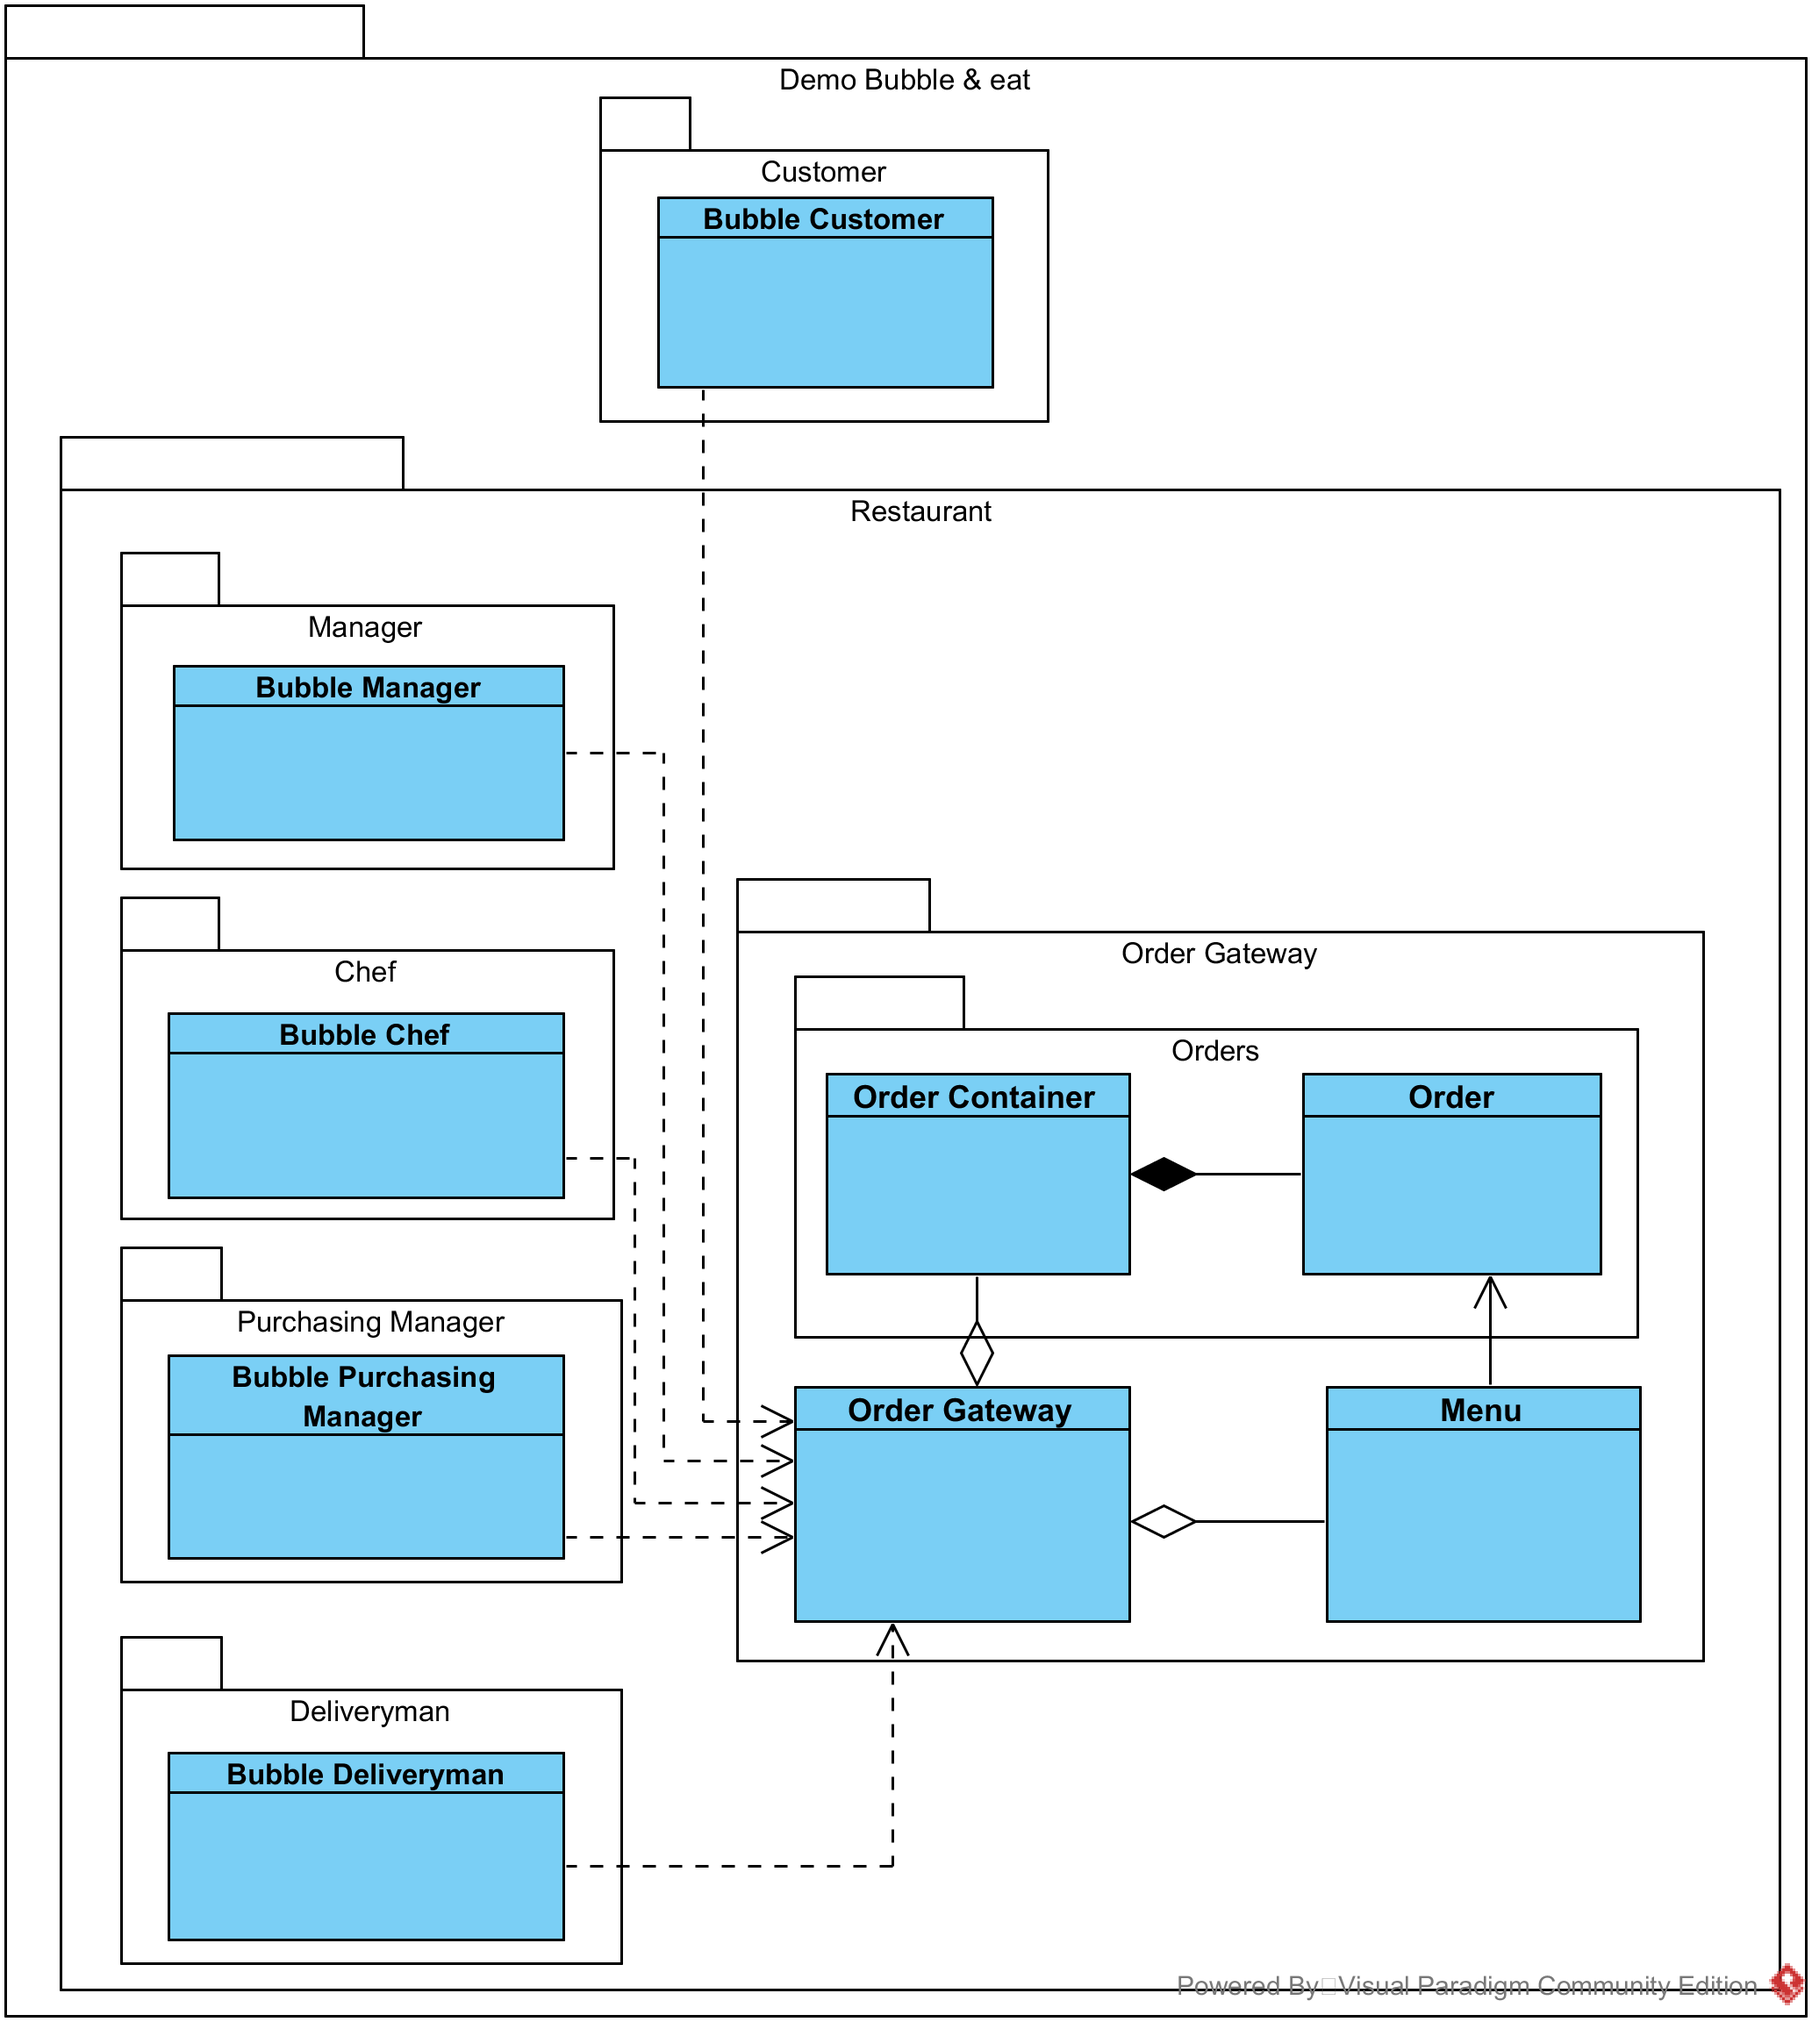
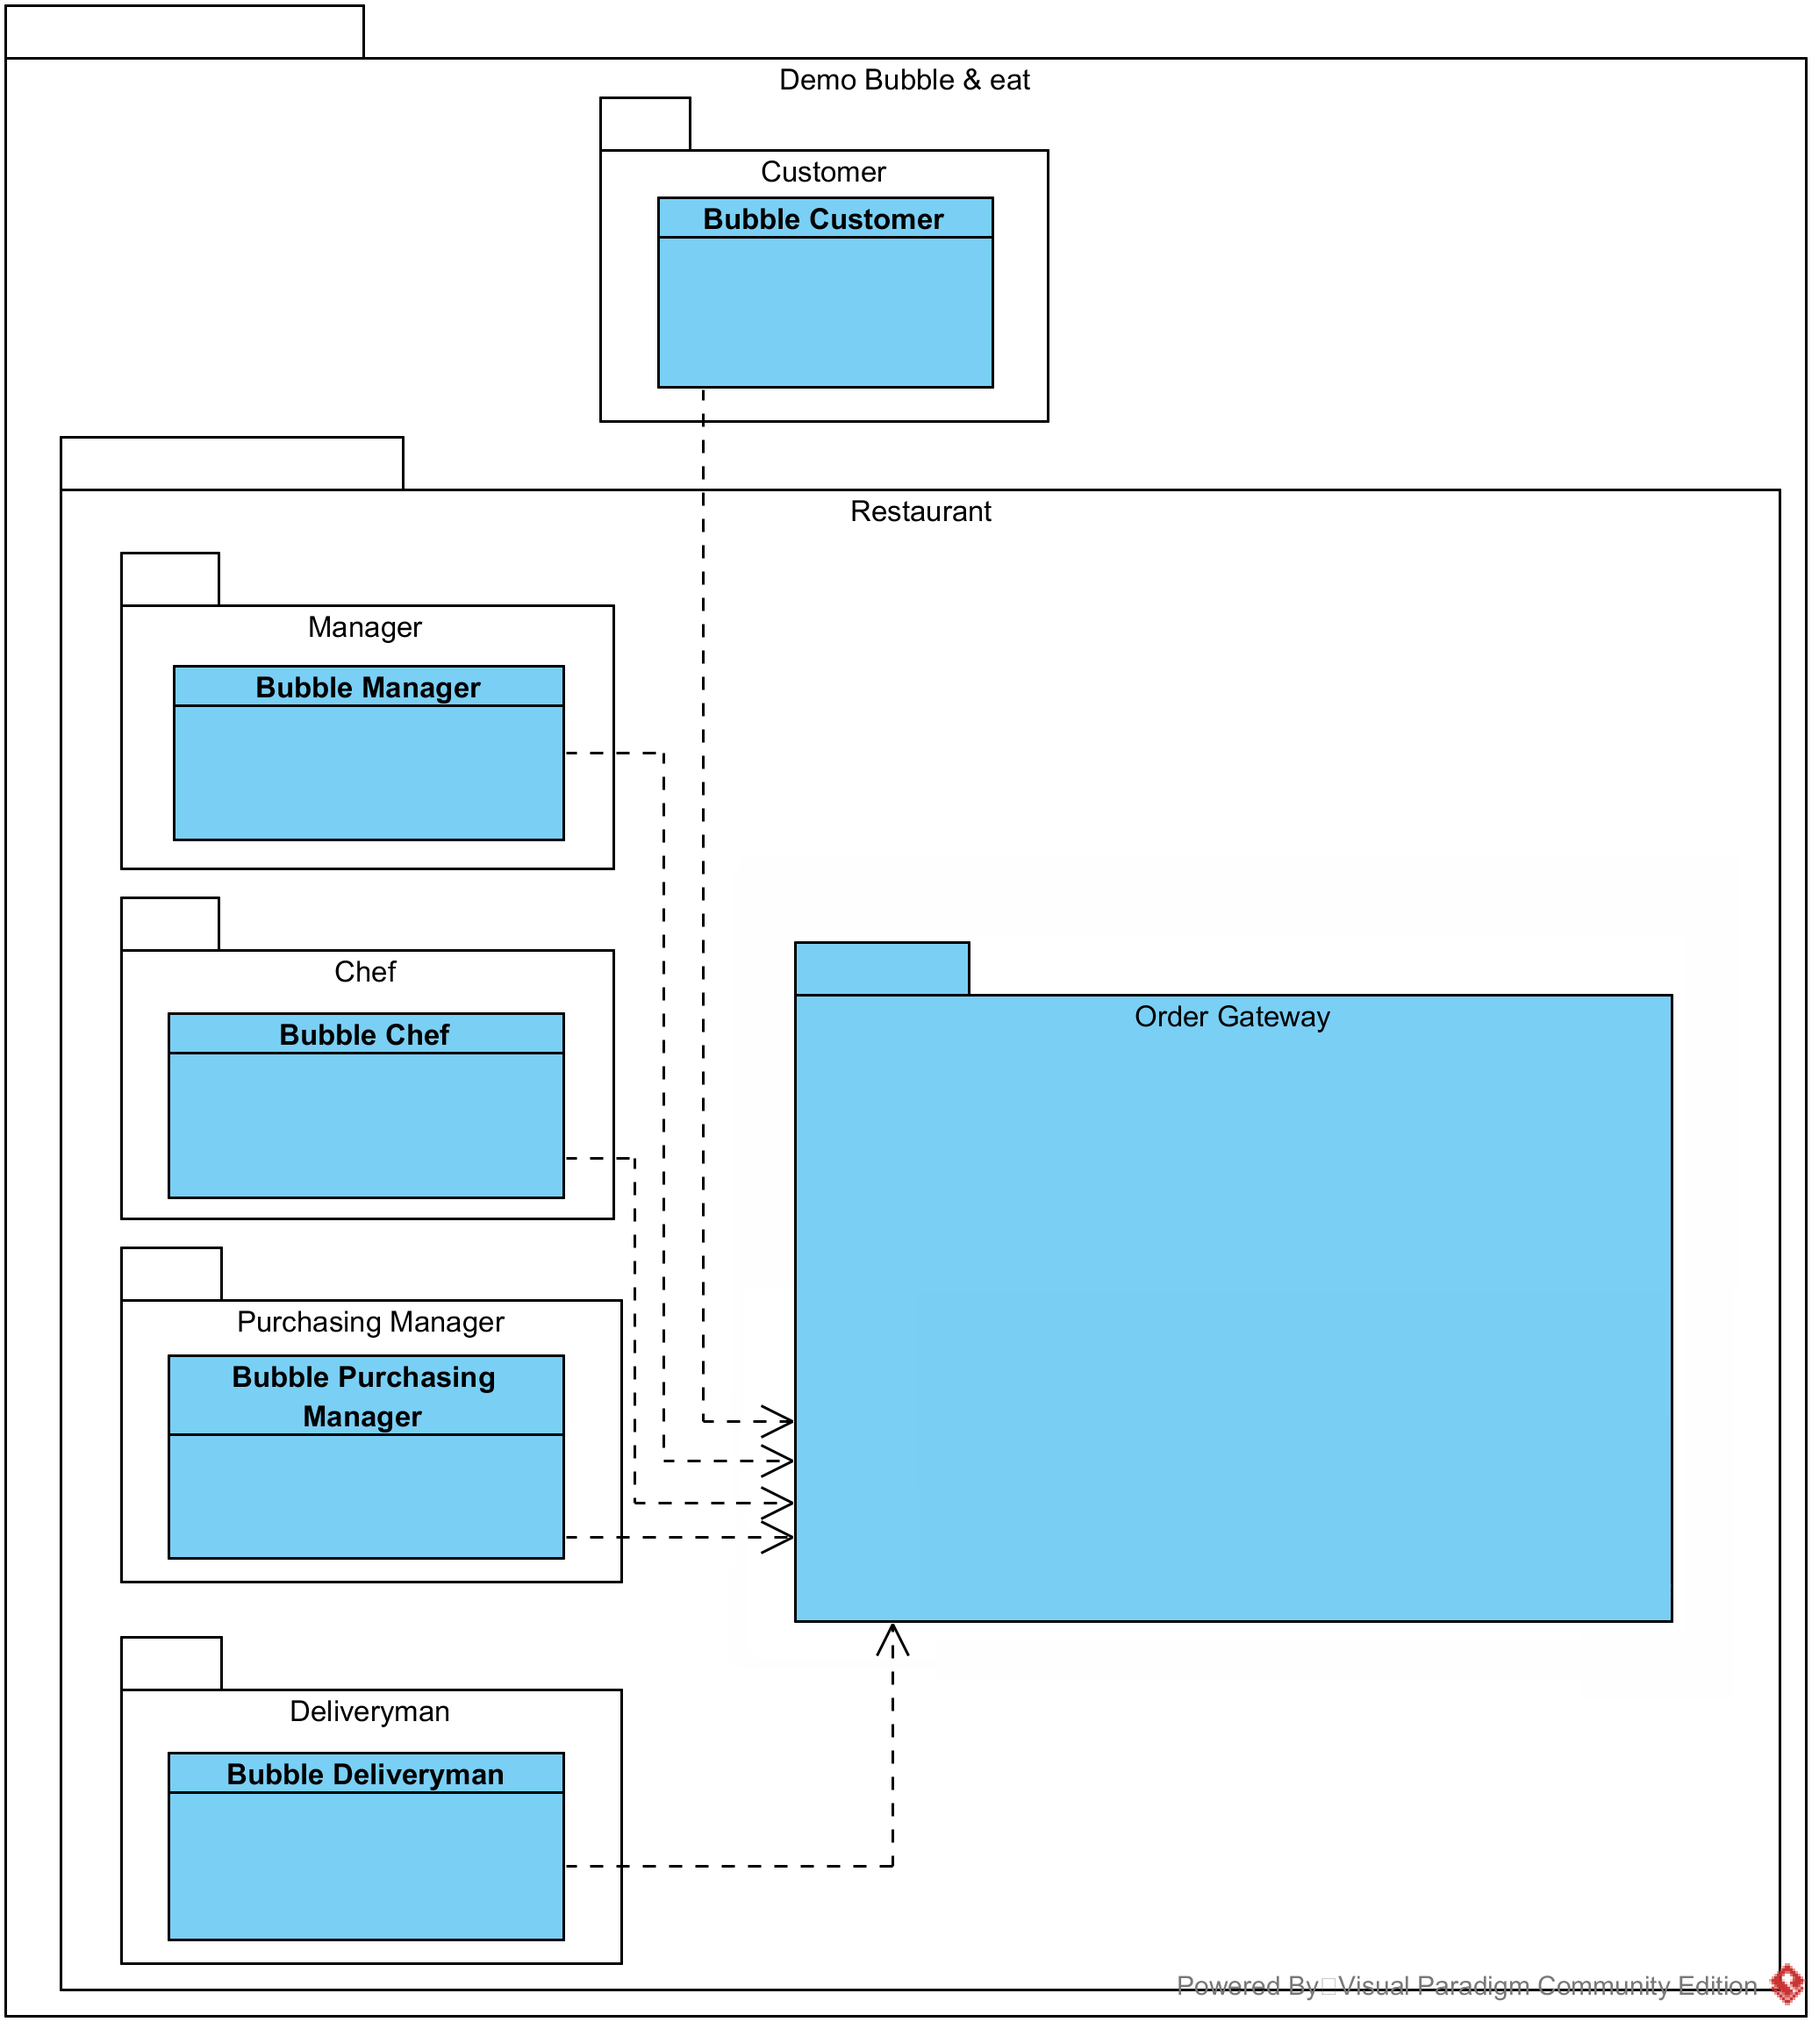
Order-Gateway modificato + schemi ST

Changed region(s): [[0.4322, 0.4358, 0.9262, 0.8093]]

diff --git a/LaTex/documenti/SpecificaTecnica/capitolo-arc-bubbleandeat.tex b/LaTex/documenti/SpecificaTecnica/capitolo-arc-bubbleandeat.tex
@@ -18,7 +18,7 @@ Tutti gli attori interni ed esterni al ristorante hanno dipendenze verso l'Order
 	\caption{Demo Bubble \& eat}
 \end{figure}
 
-\subsubsection{Package Order\-Gateway}
+\subsubsection{Package Order\-Gateway OLD}
 Il package Order\-Gateway si occupa di gestire le interazioni tra attori e database e le eventuali comunicazioni tra gli attori stessi. Il package internamente è composto dalle classi Order\-Gateway e Menu e dal package Orders.\\
 Il package Orders definisce le ordinazioni e la collezione di queste ultime che verranno poi costruite seguendo il Factory method come design pattern dalla classe Menu.\\
 Tutte le interazioni con gli elementi descritti sopra sono rese disponibili agli attori dalla classe Order\-Gateway.
@@ -28,21 +28,35 @@ Tutte le interazioni con gli elementi descritti sopra sono rese disponibili agli
 	\caption{Package Order\-Gateway}
 \end{figure}
 
-	\subsubsection{Struttura delle classi}
-	La Demo Bubble \& eat può essere divisa in due categorie di classi principali:
-	\begin{itemize}
-		\item gli attori, a loro volta divisi in interni, quali \Manager{}, \Chef{}, \Deliveryman{} e \Purchasingmanager{}, ed un unico attore esterno, il \Customer{};
-		\item un Hub gestionale centrale, l’Order\-Gateway.
-	\end{itemize}
-	Le classi degli attori non avranno la possibilità di manipolare direttamente il database o comunicare tra loro ma potranno farlo attraverso alla classe Order\-Gateway.
-	I singoli attori avranno la possibilità di manipolare e visualizzare gli stessi dati in modi differenti determinati dalla loro tipologia di utenza.
-	Tutte le operazioni saranno fornite dall'Order\-Gateway che si occuperà, oltre che dell'interazione con il database, anche della creazione degli Order.
-	
-	\begin{figure}[H]
-		\centering
-		\includegraphics[width=13cm]{diagrammi_img/classi_e_package/demo_classes.png}
-		\caption{Diagramma di struttura delle classi}
-	\end{figure}
+\subsubsection{Package Order\-Gateway NEW}
+Il package Order\-Gateway si occupa di gestire le interazioni tra attori e database e le eventuali comunicazioni tra gli attori stessi. Il package internamente è composto dalle classi Order\-Gateway ed i package Handlers, States, Reducer, Action e Server.\\
+La classe order\-gateway si occupa di indirizzare le diverse utenze all'handler corretto e gestisce la connessione con il database e le ordinazioni.\\
+Il package Handlers contiene la classi dedicate alla gestione delle diverse tipologie di utenza.\\
+Il package States contiene le classi che si occupano a salvare lo stato dei componenti.\\
+Il package Reducer contiene le classi che che interagiscono con il package States per aggiornare gli stati dei componenti.\\
+Il package Action contiene le classi che si occupano della gestione delle funzionalità dell'Order\-Gateway.\\
+Il package Server contiene la classe server e si occupa di istanziarla e di gestire i socket.\\
+\begin{figure}[H]
+	\centering
+	\includegraphics[width=14cm]{diagrammi_img/classi_e_package/ordergateNEW.png}
+	\caption{Package Order\-Gateway}
+\end{figure}
+
+\subsubsection{Struttura delle classi}
+La Demo Bubble \& eat può essere divisa in due categorie di classi principali:
+\begin{itemize}
+	\item gli attori, a loro volta divisi in interni, quali \Manager{}, \Chef{}, \Deliveryman{} e \Purchasingmanager{}, ed un unico attore esterno, il \Customer{};
+	\item un Hub gestionale centrale, l’Order\-Gateway.
+\end{itemize}
+Le classi degli attori non avranno la possibilità di manipolare direttamente il database o comunicare tra loro ma potranno farlo attraverso alla classe Order\-Gateway.
+I singoli attori avranno la possibilità di manipolare e visualizzare gli stessi dati in modi differenti determinati dalla loro tipologia di utenza.
+Tutte le operazioni saranno fornite dall'Order\-Gateway che si occuperà, oltre che dell'interazione con il database, anche della creazione degli Order.
+
+\begin{figure}[H]
+	\centering
+	\includegraphics[width=13cm]{diagrammi_img/classi_e_package/demo_classes.png}
+	\caption{Diagramma di struttura delle classi}
+\end{figure}
 
 \subsubsection{Descrizione classi}
 
@@ -78,30 +92,97 @@ Questa classe recupera dall'Order\-Gateway la lista degli acquisti, la visualizz
 
 \paragraph{Demo\-Bubble\&eat\-::Restaurant\-::Order\-Gateway\-::Order\-Gateway}\label{eat-gateway}\mbox{}\\
 \textbf{Descrizione:}\\
-La classe permette a tutti gli attori di interagire con il database attraverso apposite funzioni e si occupa di gestire le interazioni con il menu e l'insieme delle ordinazioni contenute nell'OrderContainer. La classe si occupa inoltre di inviare le notifiche agli attori quando viene richiesto o in maniera automatica ed aggiorna le risorse e le liste in tempo reale.\\
+La classe permette a tutti gli attori di interagire con il database e di effettuare la connessione con quest'ultimo. Inoltre si occupa di indirizzare gli utenti verso il proprio specifico handler.\\
 \textbf{Utilizzo:}\\
-Questa classe offre diverse funzionalità agli attori per manipolare il database, le ordinazioni contenute nell'OrderContainer ed il menu, che permette a sua volta la creazione delle ordinazioni. Queste funzioni saranno disponibili o meno a seconda del tipo di attore.\\
-La classe aggiorna le risorse in modo automatico, scalando gli ingredienti dai valori impostati per ogni piatto nel menu. Ha inoltre delle funzioni di notifica che possono essere impostate automaticamente durante le operazioni o chiamate da alcuni attori.
-
-\paragraph{Demo\-Bubble\&eat\-::Restaurant\-::Order\-Gateway\-::Menu}\label{eat-menu}\mbox{}\\
-\textbf{Descrizione:}\\
-La classe permette la creazione delle ordinazioni ed attraverso l'Order\-Gateway fornisce diverse operazioni agli utenti:
+La classe gestisce:
 \begin{itemize}
-	\item \Customer{}: recupero del menu e creazione dell'ordinazione;
-	\item \Manager{}: recupero e modifica del menu.
+	\item La connessione con il database ed il salvataggio dei dati;
+	\item L'indirizzamento dei diversi utenti verso l'apposito Handler.\\
 \end{itemize}
-\textbf{Utilizzo:}\\
-Questa classe implementa il design pattern del Factory method e permette la creazione delle orinazioni, inoltre fornisce dei metodi per modificare ed ottenere il menu.
+\textbf{Relazioni con altre classi:}\\
+\begin{itemize}
+	\item {Demo\-Bubble\&eat\-::Restaurant\-::Order\-Gateway\-::Server\-::Server};
+	\item {Demo\-Bubble\&eat\-::Restaurant\-::Order\-Gateway\-::Handlers\-::Cook\-Handler};
+	\item {Demo\-Bubble\&eat\-::Restaurant\-::Order\-Gateway\-::Handlers\-::Client\-Handler};
+	\item {Demo\-Bubble\&eat\-::Restaurant\-::Order\-Gateway\-::Handlers\-::Admin\-Handler};
+	\item {Demo\-Bubble\&eat\-::Restaurant\-::Order\-Gateway\-::Reducers\-::Combine\-Reducer}.
+\end{itemize}
 
-\paragraph{Demo\-Bubble\&eat\-::Restaurant\-::Order\-Gateway\-::Order\-::Order}\label{eat-order}\mbox{}\\ 
+\paragraph{Demo\-Bubble\&eat\-::Restaurant\-::Order\-Gateway\-::Server\-::Server}\label{eat-Actions}\mbox{}\\
 \textbf{Descrizione:}\\
-Questa classe definisce il contenuto dell'ordinazione. Contiene gli elementi scelti dal menu e i dati forniti dall'utente per la consegna.\\
-L'ordinazione è definita anche da uno stato e la classe offre i metodi per modificarlo. \\
+La classe definisce il costruttore del Server e la gestione dei socket.\\
 \textbf{Utilizzo:}\\
-Questa classe permette di inserire gli elementi del menu nell'ordinazione e di modificare lo stato della stessa. 
+La classe Server si occupa di della connessione del server e gestisce l'utilizzo dei socket. Questa classe viene usata per la creazione del server all'interno dell'Order\-Gateway.
 
-\paragraph{Demo\-Bubble\&eat\-::Restaurant\-::Order\-Gateway\-::Order\-::Order\-Contai\-ner}\label{eat-container}\mbox{}\\
+\paragraph{Demo\-Bubble\&eat\-::Restaurant\-::Order\-Gateway\-::Handlers\-::Cook\-Handler}\label{eat-handler}\mbox{}\\
 \textbf{Descrizione:}\\
-La classe permette la gestione di una collezione di ordinazioni definite dalla classe Order.\\
+La classe permette di gestire le operazioni dedicate allo \Chef{} interagendo con il database e con le ordinazioni.\\
 \textbf{Utilizzo:}\\
-Questa classe offre la possibilità di aggiungere, rimuovere e restituire elementi da una collezione di ordinazioni.
+La classe controlla la connessione e la disconnessione dello \Chef{}. La classe si occupa di recuperare in tempo reale le ordinazioni attive offrendo la possibilità di cambiarne lo stato in completato di quest'ultime.\\
+\textbf{Relazioni con altre classi:}\\
+\begin{itemize}
+	\item {Demo\-Bubble\&eat\-::Restaurant\-::Order\-Gateway\-::Actions\-::Orders};
+	\item {Demo\-Bubble\&eat\-::Restaurant\-::Order\-Gateway\-::Actions\-::Cook}.
+\end{itemize}
+
+\paragraph{Demo\-Bubble\&eat\-::Restaurant\-::Order\-Gateway\-::Handlers\-::Client\-Handler}\label{eat-handler}\mbox{}\\
+\textbf{Descrizione:}\\
+La classe permette di gestire le operazioni dedicate allo \Customer{} interagendo con il database e con le ordinazioni.\\
+\textbf{Utilizzo:}\\
+La classe gestisce:
+\begin{itemize}
+	\item La connessione e la disconnessione del \Customer{};
+	\item Il recupero delle eventuali informazioni sullo stato dell'ordinazione;
+	\item La richiesta del menu;
+	\item La richiesta dell'id identificativo dell'ordine;
+	\item La possibililità di effettuare l'ordinazione.\\
+\end{itemize}
+\textbf{Relazioni con altre classi:}\\
+\begin{itemize}
+	\item {Demo\-Bubble\&eat\-::Restaurant\-::Order\-Gateway\-::Actions\-::Orders}.
+\end{itemize}
+
+\paragraph{Demo\-Bubble\&eat\-::Restaurant\-::Order\-Gateway\-::Handlers\-::Admin\-Handler}\label{eat-handler}\mbox{}\\
+\textbf{Descrizione:}\\
+La classe permette di gestire le operazioni dedicate allo \Manager{} interagendo con il database, le ordinazioni ad il menù.\\
+\textbf{Utilizzo:}\\
+La classe controlla la connessione e la disconnessione del \Manager{}. La classe si occupa di recuperare in tempo reale le ordinazioni attive e completate offrendo la possibilità di cancellarle. La classe permette di recuperare il menu e offre la possibilità di aggiungere, rimuovere e modificare i piatti.\\
+\textbf{Relazioni con altre classi:}\\
+\begin{itemize}
+	\item {Demo\-Bubble\&eat\-::Restaurant\-::Order\-Gateway\-::Actions\-::Orders};
+	\item {Demo\-Bubble\&eat\-::Restaurant\-::Order\-Gateway\-::Actions\-::Menu}.
+\end{itemize}
+
+\paragraph{Demo\-Bubble\&eat\-::Restaurant\-::Order\-Gateway\-::Reducer\-::Cook\-Reducer}\label{eat-reducer}\mbox{}\\
+\textbf{Descrizione:}\\
+La classe permette di modificare lo stato dello \Chef{}.\\
+\textbf{Utilizzo:}\\
+La classe gestisce le operazioni possibili sullo stato relativo allo \Chef{} per definire se è connesso.\\
+\textbf{Relazioni con altre classi:}\\
+\begin{itemize}
+	\item {Demo\-Bubble\&eat\-::Restaurant\-::Order\-Gateway\-::States}.
+\end{itemize}
+
+\paragraph{Demo\-Bubble\&eat\-::Restaurant\-::Order\-Gateway\-::Reducer\-::Menu\-Reducer}\label{eat-reducer}\mbox{}\\
+\textbf{Descrizione:}\\
+La classe permette di modificare lo stato del menu.\\
+\textbf{Utilizzo:}\\
+La classe gestisce lo stato del menu e permette le operazioni di aggiunta, modifica e rimozioni dei piatti.\\
+\textbf{Relazioni con altre classi:}\\
+\begin{itemize}
+	\item {Demo\-Bubble\&eat\-::Restaurant\-::Order\-Gateway\-::States}.
+\end{itemize}
+
+\paragraph{Demo\-Bubble\&eat\-::Restaurant\-::Order\-Gateway\-::Reducer\-::Order\-Reducer}\label{eat-reducer}\mbox{}\\
+\textbf{Descrizione:}\\
+La classe permette di modificare lo stato delle ordinazioni.\\
+\textbf{Utilizzo:}\\
+La classe gestisce lo stato delle ordinazioni e permette le operazioni di aggiunta, modifica e rimozioni delle ordinazioni.\\
+\textbf{Relazioni con altre classi:}\\
+\begin{itemize}
+	\item {Demo\-Bubble\&eat\-::Restaurant\-::Order\-Gateway\-::States}.
+\end{itemize}
+
+\paragraph{Demo\-Bubble\&eat\-::Restaurant\-::Order\-Gateway\-::Reducer\-::Combine\-Reducer}\label{eat-reducer}\mbox{}\\
+\textbf{Descrizione:}\\
+
